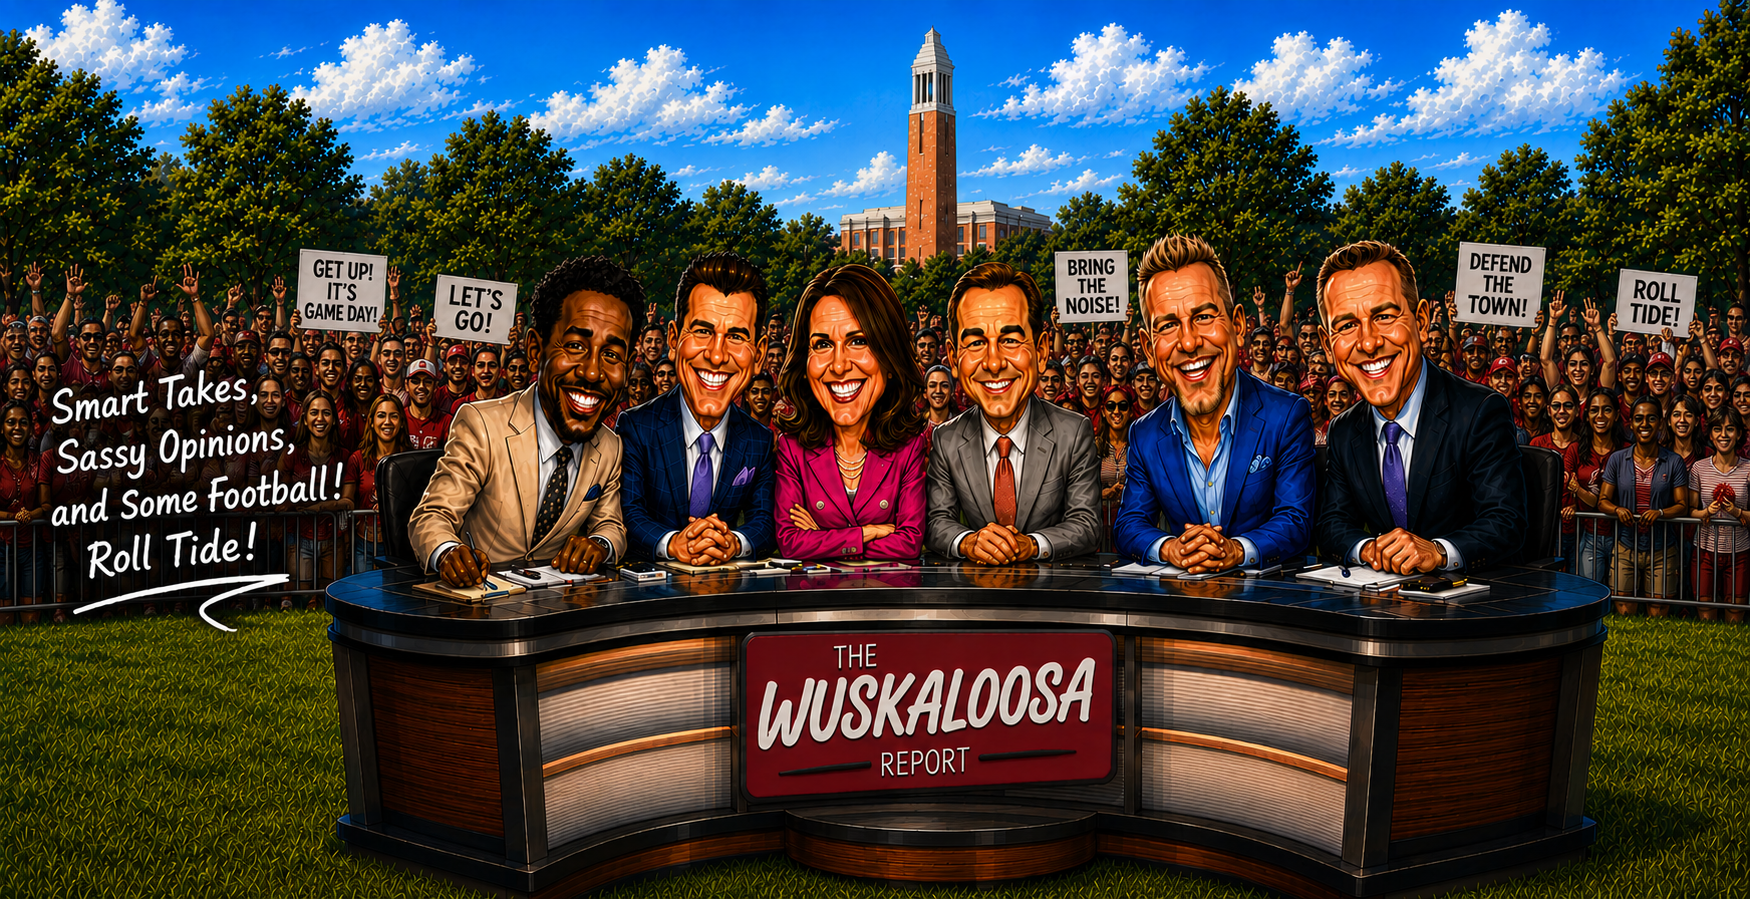
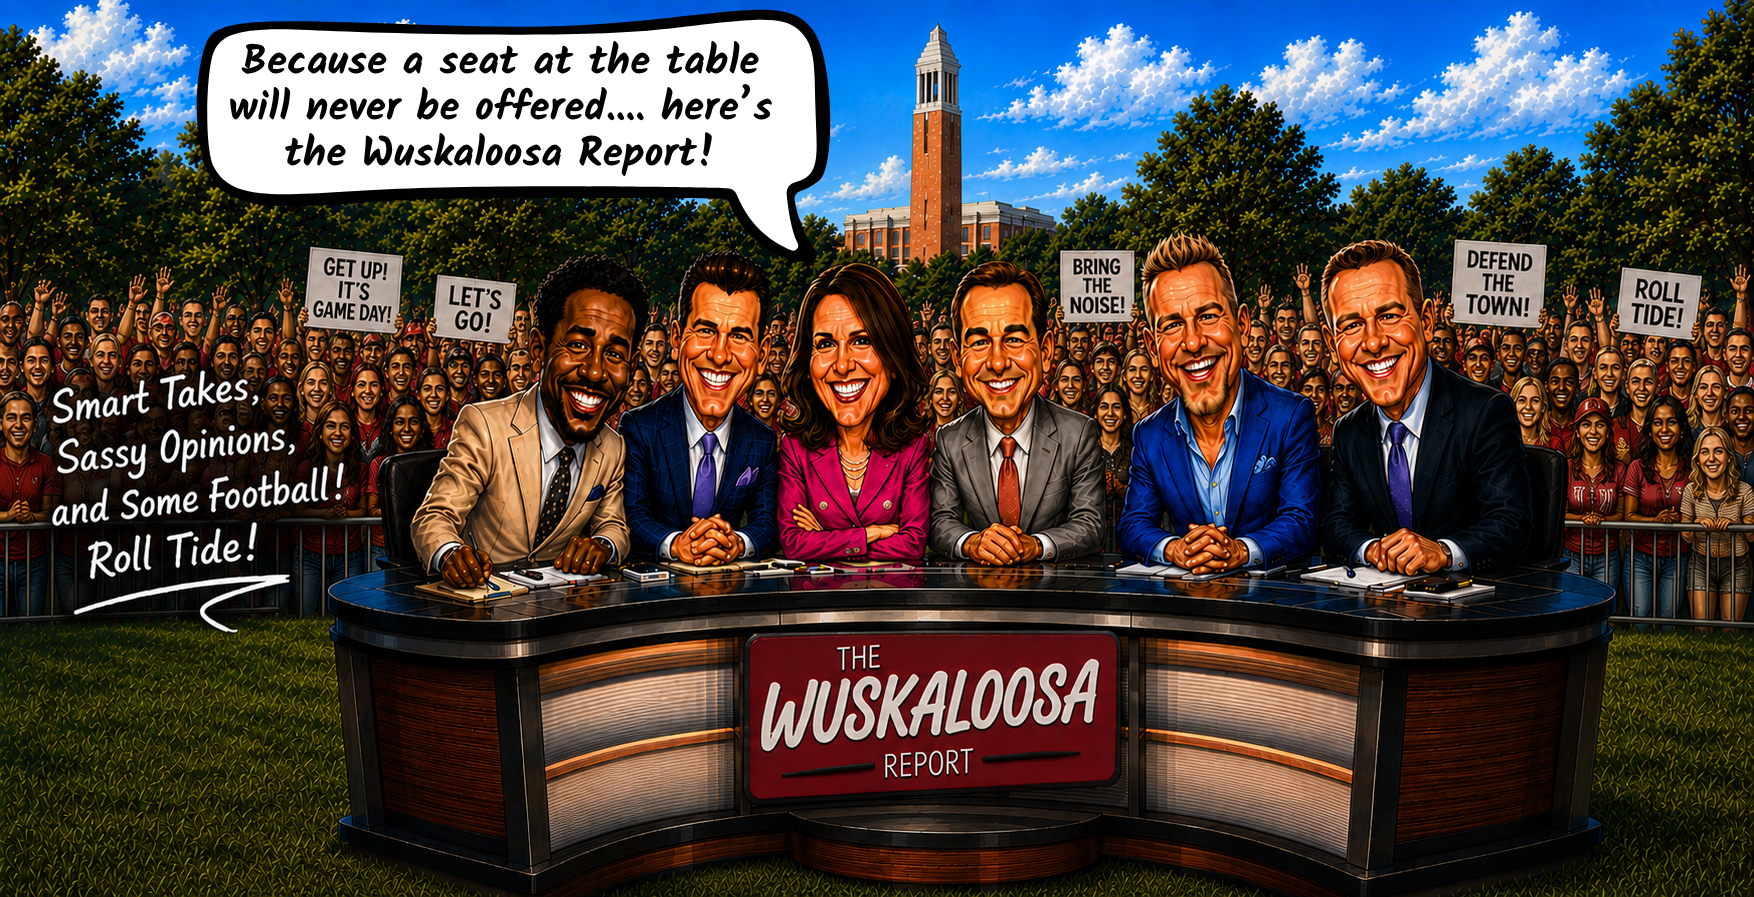
New hero image; About tagline fix; archive grouped by season

diff --git a/src/main.js b/src/main.js
@@ -198,16 +198,33 @@ function archivePage() {
       <p style="font-family:var(--marker);font-size:40px;margin:0">Coming soon.</p>
       <p style="margin:12px 0 0;font-size:15px">The takes are loading — check back before kickoff.</p>
     </div>`;
-  return `
 
-    <main class="page-shell inner-page">
-      <p class="eyebrow crimson">EVERY TAKE</p>
-      <h1 class="page-title">Past Takes</h1>
-      ${posts.length
-        ? `<div class="card-grid archive-grid">${posts.map(postCard).join('')}</div>`
-        : emptyState
-      }
-    </main>`;
+  function buildSeasonSections() {
+    const byYear = {};
+    posts.forEach(p => {
+      const yr = p.date instanceof Date ? p.date.getFullYear() : new Date(p.date).getFullYear();
+      if (!byYear[yr]) byYear[yr] = [];
+      byYear[yr].push(p);
+    });
+    const years = Object.keys(byYear).map(Number).sort((a, b) => b - a);
+    return years.map((yr, i) => {
+      const count = byYear[yr].length;
+      const cards = byYear[yr].map(postCard).join('');
+      return '<details class="archive-year"' + (i === 0 ? ' open' : '') + '>'
+        + '<summary class="archive-year-hd">'
+        + yr + ' Season'
+        + '<span class="archive-year-count">' + count + ' take' + (count !== 1 ? 's' : '') + '</span>'
+        + '</summary>'
+        + '<div class="card-grid archive-grid">' + cards + '</div>'
+        + '</details>';
+    }).join('');
+  }
+
+  return '<main class="page-shell inner-page">'
+    + '<p class="eyebrow crimson">EVERY TAKE</p>'
+    + '<h1 class="page-title">Past Takes</h1>'
+    + (posts.length ? buildSeasonSections() : emptyState)
+    + '</main>';
 }
 
 function schedulePage() {
@@ -493,7 +510,7 @@ function aboutPage() {
 
     <main class="page-shell inner-page narrow">
       <p class="eyebrow crimson">ABOUT THE REPORT</p>
-      <h1 class="page-title">Smart takes. Sassy opinions. Some football.</h1>
+      <h1 class="page-title">Smart takes, Sassy opinions, and Some football!</h1>
 
       <p style="font-size:18px;line-height:1.7;margin-bottom:0">
         Jackie Wuska Wear is a native of Birmingham and resides in Tuscaloosa with her husband Jason Wear
